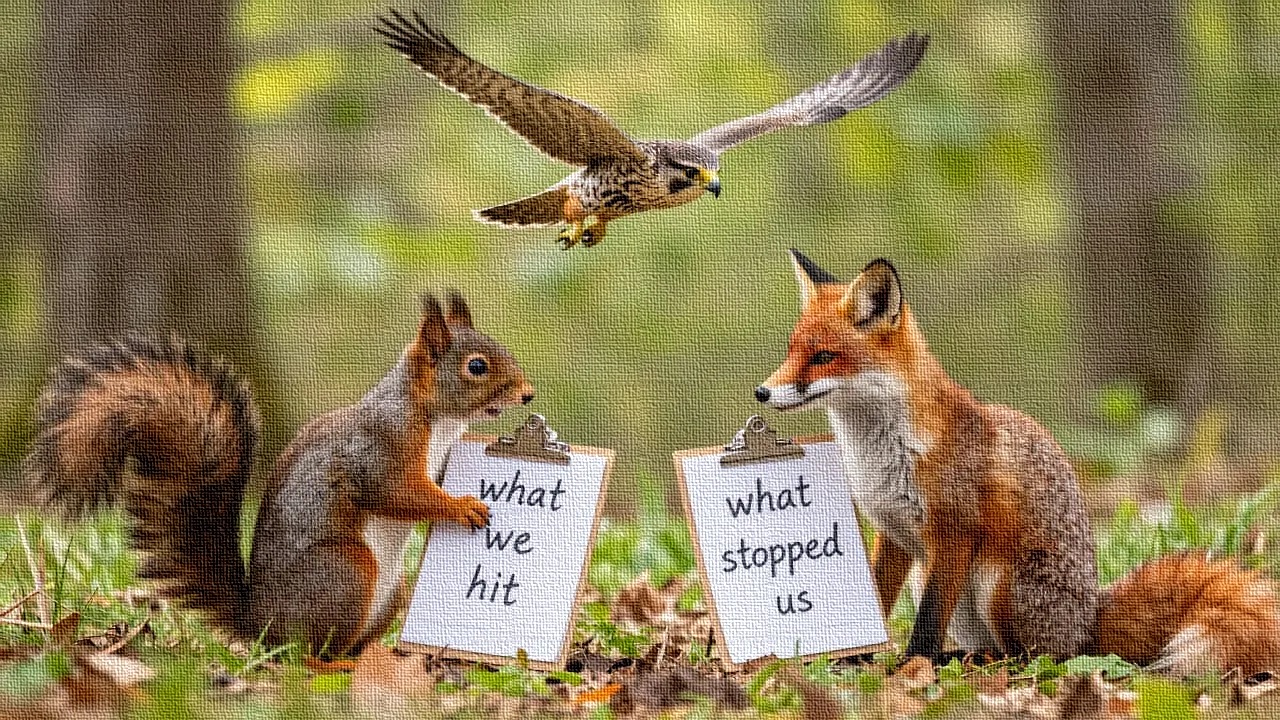
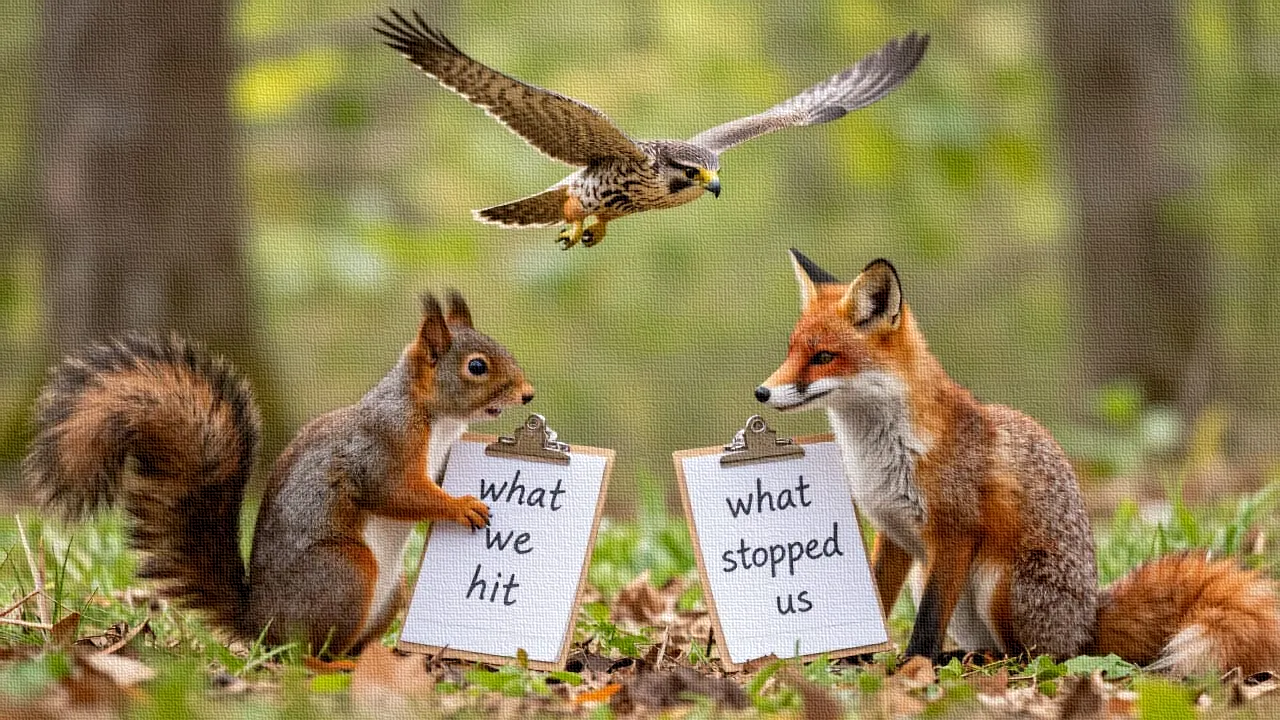
refactoring and updating 2026

diff --git a/source/index.rst b/source/index.rst
@@ -20,10 +20,8 @@ coffee, because the attackers never sleep, and neither do we (but only because o
    docs/stormforge/index
    docs/active/index
 
-----
-
 Going places
-=======================
+------------------------
 
 .. image:: /_static/images/ukc2.png
   :alt: Unified Kill Chain